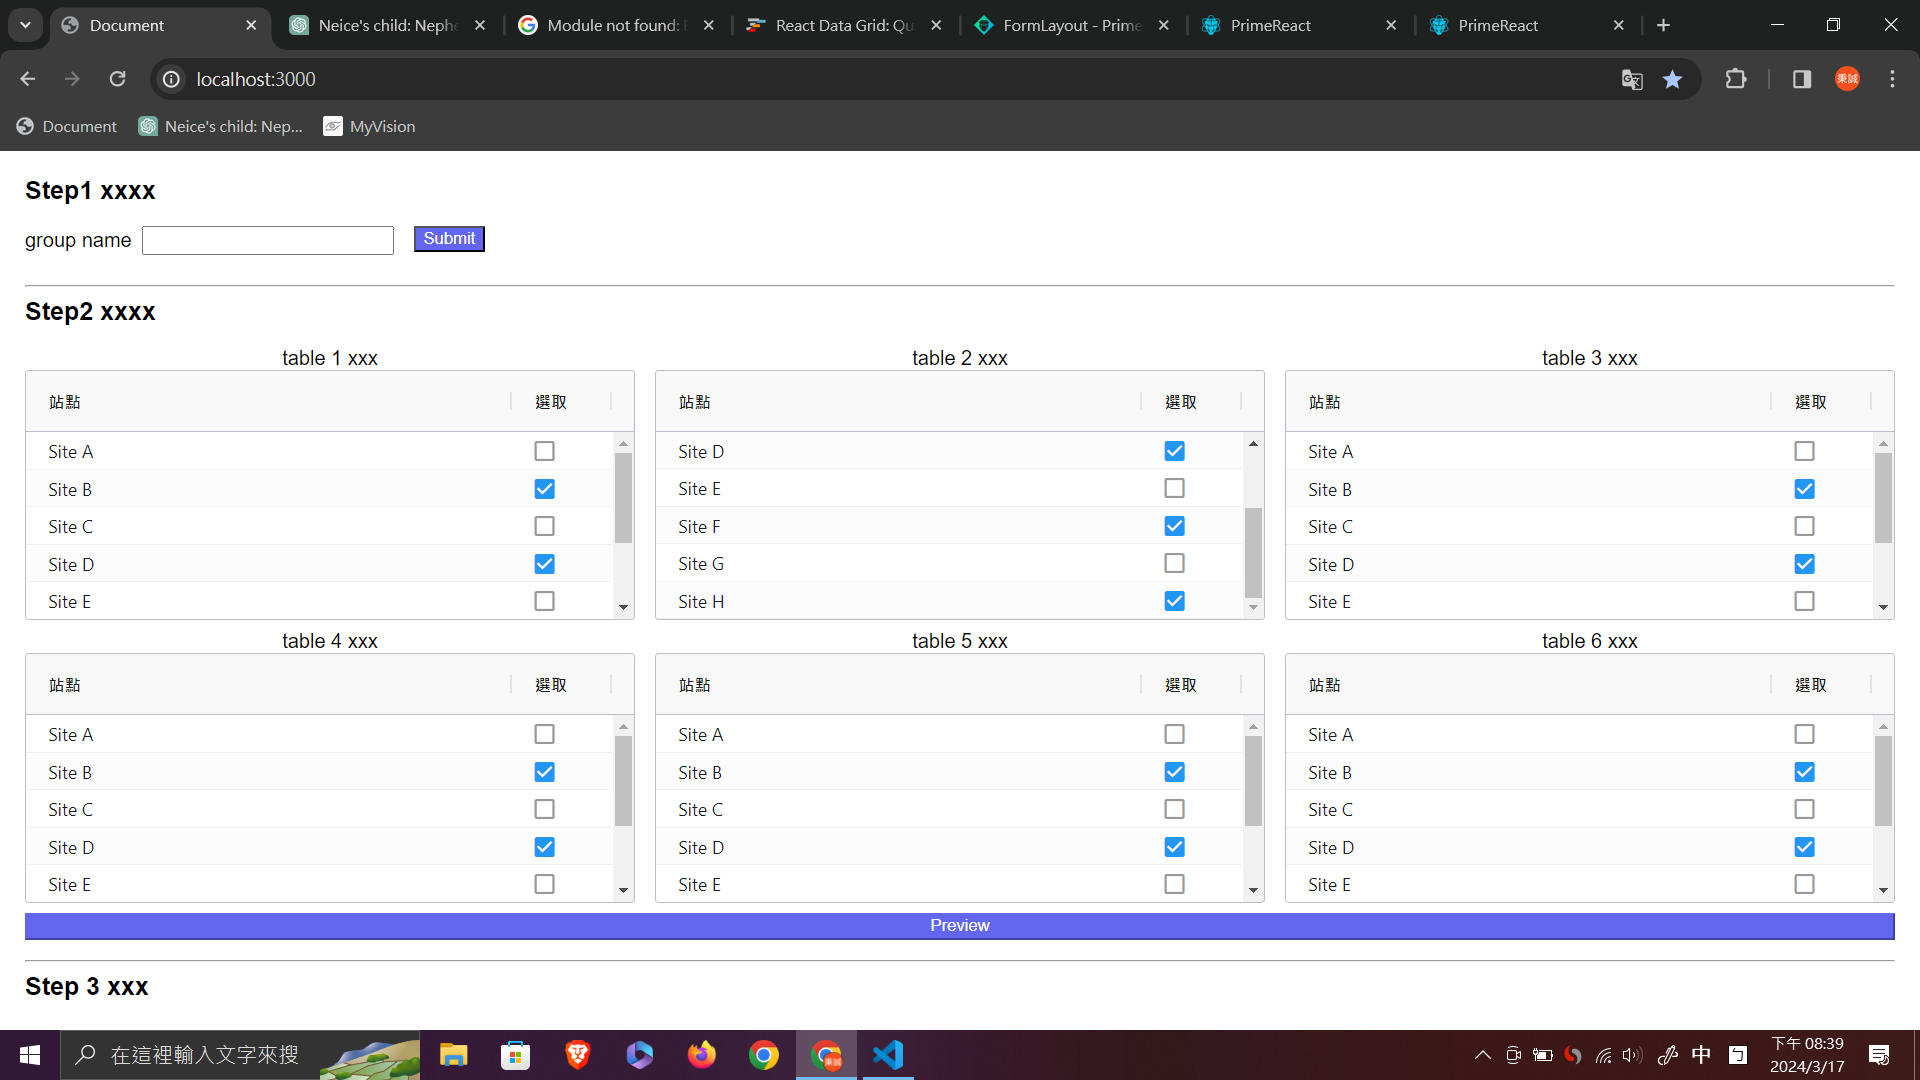
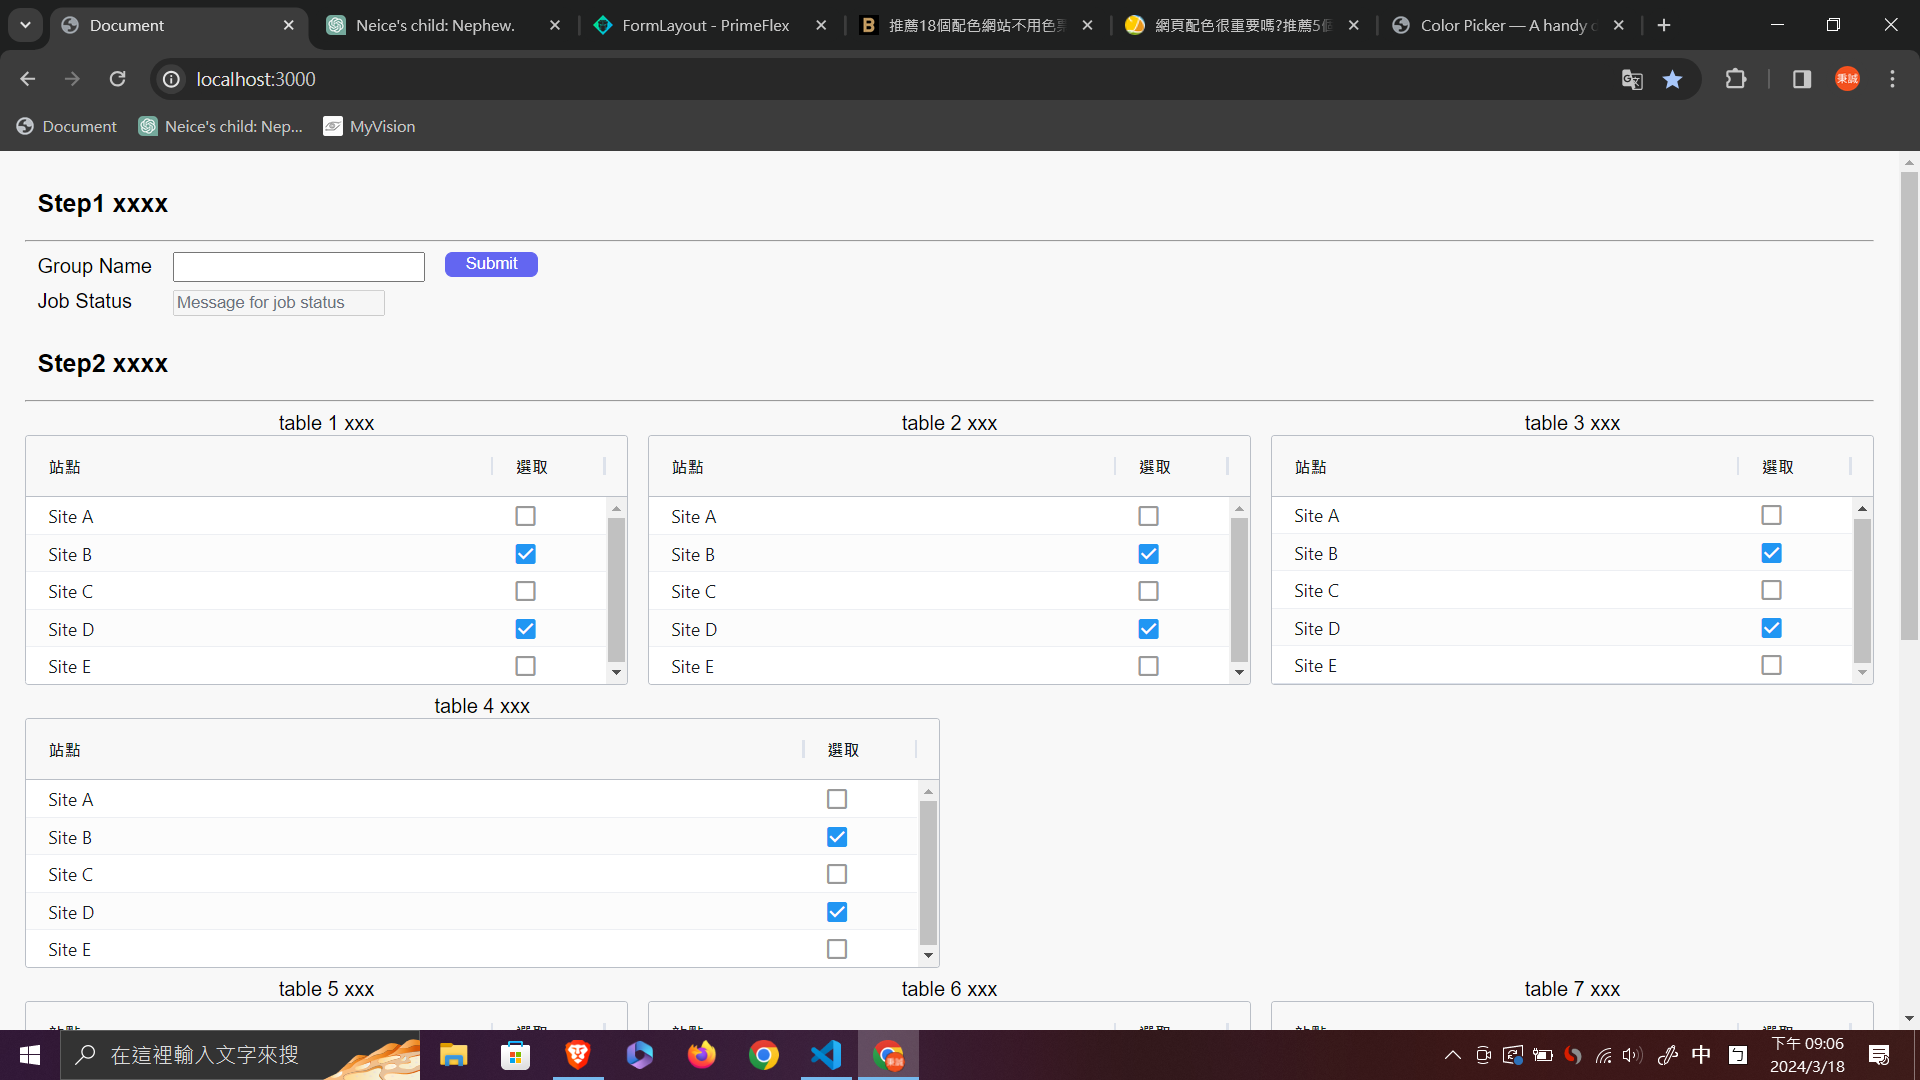
basic layout -2

diff --git a/react-project/src/App.tsx b/react-project/src/App.tsx
@@ -6,6 +6,7 @@ import React, { useState } from 'react';
 import 'primeflex/primeflex.css';
 import "primereact/resources/themes/lara-light-indigo/theme.css";
 import "primeicons/primeicons.css";
+import "./app.css";
 
 // Row Data Interface
 interface IRow {
@@ -15,116 +16,227 @@ interface IRow {
 
 const App: React.FC = () => {
     // 表格数据
-    const [rowData, setRowData] = useState<IRow[]>([
+
+    // ########## TABLE 1 ########## //
+    const [rowData1, setRowData1] = useState<IRow[]>([
         { site: 'Site A', selected: false },
         { site: 'Site B', selected: true },
         { site: 'Site C', selected: false },
         { site: 'Site D', selected: true },
-        { site: 'Site E', selected: false },
-        { site: 'Site F', selected: true },
-        { site: 'Site G', selected: false },
-        { site: 'Site H', selected: true },
+        { site: 'Site E', selected: false }
     ]);
 
-    // 列定义
-    const [colDefs, setColDefs] = useState<ColDef<IRow>[]>([
+    const [colDefs1, setColDefs1] = useState<ColDef<IRow>[]>([
         { headerName: '站點', field: 'site', filter: 'agTextColumnFilter', flex: 1 },
-        { headerName: '選取', field: 'selected', editable: true, filter: 'agTextColumnFilter', width: 80 },
+        { headerName: '選取', field: 'selected', editable: true, filter: 'agTextColumnFilter', width: 90 },
+    ]);
+
+    // ########## TABLE 2 ########## //
+    const [rowData2, setRowData2] = useState<IRow[]>([
+        { site: 'Site A', selected: false },
+        { site: 'Site B', selected: true },
+        { site: 'Site C', selected: false },
+        { site: 'Site D', selected: true },
+        { site: 'Site E', selected: false }
+    ]);
+
+    // ########## TABLE 3 ########## //
+    const [rowData3, setRowData3] = useState<IRow[]>([
+        { site: 'Site A', selected: false },
+        { site: 'Site B', selected: true },
+        { site: 'Site C', selected: false },
+        { site: 'Site D', selected: true },
+        { site: 'Site E', selected: false }
+    ]);
+
+    // ########## TABLE 4 ########## //
+    const [rowData4, setRowData4] = useState<IRow[]>([
+        { site: 'Site A', selected: false },
+        { site: 'Site B', selected: true },
+        { site: 'Site C', selected: false },
+        { site: 'Site D', selected: true },
+        { site: 'Site E', selected: false }
+    ]);
+
+    // ########## TABLE 5 ########## //
+    const [rowData5, setRowData5] = useState<IRow[]>([
+        { site: 'Site A', selected: false },
+        { site: 'Site B', selected: true },
+        { site: 'Site C', selected: false },
+        { site: 'Site D', selected: true },
+        { site: 'Site E', selected: false }
+    ]);
+
+    // ########## TABLE 6 ########## //
+    const [rowData6, setRowData6] = useState<IRow[]>([
+        { site: 'Site A', selected: false },
+        { site: 'Site B', selected: true },
+        { site: 'Site C', selected: false },
+        { site: 'Site D', selected: true },
+        { site: 'Site E', selected: false }
+    ]);
+
+    // ########## TABLE 7 ########## //
+    const [rowData7, setRowData7] = useState<IRow[]>([
+        { site: 'Site A', selected: false },
+        { site: 'Site B', selected: true },
+        { site: 'Site C', selected: false },
+        { site: 'Site D', selected: true },
+        { site: 'Site E', selected: false }
+    ]);
+
+    // ########## TABLE 8 ########## //
+    const [rowData8, setRowData8] = useState<IRow[]>([
+        { site: 'Site A', selected: false },
+        { site: 'Site B', selected: true },
+        { site: 'Site C', selected: false },
+        { site: 'Site D', selected: true },
+        { site: 'Site E', selected: false }
+    ]);
+
+    const [colDefs8, setColDefs8] = useState<ColDef<IRow>[]>([
+        { headerName: '站點', field: 'site', filter: 'agTextColumnFilter', flex: 1 },
+        { headerName: '選取', field: 'selected', editable: true, filter: 'agTextColumnFilter', width: 90 },
     ]);
 
     return (
         <div>
             <h2>Step1 xxxx</h2>
-            <div className="formgroup-inline">
-                <div className="field">
-                    <label htmlFor="firstname" className="p-sr-only">group name</label>
-                    <input id="firstname" type="text" className="text-base text-color" placeholder="" />
-                </div>
-                <button type="button" className="bg-primary">Submit</button>
-            </div>
             <hr></hr>
+            <div>
+                <div className="formgroup-inline" style={{ marginLeft: '10px', height: '30px' }}>
+                    <div className="field">
+                        <label htmlFor="firstname" className="p-sr-only" style={{ width: '100px' }} >Group Name</label>
+                        <input id="firstname" type="text" className="text-base text-color" placeholder="" />
+                    </div>
+                    <button type="button" className="bg-primary border-primary-500 px-3 border-1 border-solid border-round cursor-pointer transition-all transition-duration-200 hover:bg-primary-600 hover:border-primary-600 active:bg-primary-700 active:border-primary-700">Submit</button>
+                </div>
+                <div className="formgroup-inline" style={{ marginLeft: '10px' }}>
+                    <div className="field">
+                        <label htmlFor="jobStatus" className="p-sr-only" style={{ width: '100px' }}>Job Status</label>
+                        <input id="jobStatus" type="text" placeholder="Message for job status" disabled />
+                    </div>
+                </div>
+            </div>
 
             <h2>Step2 xxxx</h2>
-
+            <hr></hr>
             {/* Station table*/}
             <div className="grid">
                 <div className="col">
-                    <p style={{ margin: 0, textAlign: "center" }}>table 1 xxx</p>
+                    <p className='table-title'>table 1 xxx</p>
                     <div className="ag-theme-alpine" style={{ height: 200 }}>
                         <AgGridReact
-                            rowData={rowData}
-                            columnDefs={colDefs}
+                            rowData={rowData1}
+                            columnDefs={colDefs1}
                             getRowHeight={() => 30}
                         />
                     </div>
                 </div>
                 <div className="col">
-                    <p style={{ margin: 0, textAlign: "center" }}>table 2 xxx</p>
+                    <p className='table-title'>table 2 xxx</p>
                     <div className="ag-theme-alpine" style={{ height: 200 }}>
                         <AgGridReact
-                            rowData={rowData}
-                            columnDefs={colDefs}
+                            rowData={rowData2}
+                            columnDefs={colDefs1}
                             getRowHeight={() => 30}
                         />
                     </div>
                 </div>
                 <div className="col">
-                    <p style={{ margin: 0, textAlign: "center" }}>table 3 xxx</p>
+                    <p className='table-title'>table 3 xxx</p>
                     <div className="ag-theme-alpine" style={{ height: 200 }}>
                         <AgGridReact
-                            rowData={rowData}
-                            columnDefs={colDefs}
+                            rowData={rowData3}
+                            columnDefs={colDefs1}
                             getRowHeight={() => 30}
                         />
                     </div>
                 </div>
             </div>
 
-            {/* Other table*/}
+            {/* FDC table*/}
             <div className="grid">
-                <div className="col">
-                    <p style={{ margin: 0, textAlign: "center" }}>table 4 xxx</p>
+                <div className="col-6">
+                    <p className='table-title'>table 4 xxx</p>
                     <div className="ag-theme-alpine" style={{ height: 200 }}>
                         <AgGridReact
-                            rowData={rowData}
-                            columnDefs={colDefs}
-                            getRowHeight={() => 30}
-                        />
-                    </div>
-                </div>
-                <div className="col">
-                    <p style={{ margin: 0, textAlign: "center" }}>table 5 xxx</p>
-                    <div className="ag-theme-alpine" style={{ height: 200 }}>
-                        <AgGridReact
-                            rowData={rowData}
-                            columnDefs={colDefs}
-                            getRowHeight={() => 30}
-                        />
-                    </div>
-                </div>
-                <div className="col">
-                    <p style={{ margin: 0, textAlign: "center" }}>table 6 xxx</p>
-                    <div className="ag-theme-alpine" style={{ height: 200 }}>
-                        <AgGridReact
-                            rowData={rowData}
-                            columnDefs={colDefs}
+                            rowData={rowData4}
+                            columnDefs={colDefs1}
                             getRowHeight={() => 30}
                         />
                     </div>
                 </div>
             </div>
+
+            {/* WAC table*/}
+            <div className="grid">
+                <div className="col">
+                    <p className='table-title'>table 5 xxx</p>
+                    <div className="ag-theme-alpine" style={{ height: 200 }}>
+                        <AgGridReact
+                            rowData={rowData5}
+                            columnDefs={colDefs1}
+                            getRowHeight={() => 30}
+                        />
+                    </div>
+                </div>
+                <div className="col">
+                    <p className='table-title'>table 6 xxx</p>
+                    <div className="ag-theme-alpine" style={{ height: 200 }}>
+                        <AgGridReact
+                            rowData={rowData6}
+                            columnDefs={colDefs1}
+                            getRowHeight={() => 30}
+                        />
+                    </div>
+                </div>
+                <div className="col">
+                    <p className='table-title'>table 7 xxx</p>
+                    <div className="ag-theme-alpine" style={{ height: 200 }}>
+                        <AgGridReact
+                            rowData={rowData7}
+                            columnDefs={colDefs1}
+                            getRowHeight={() => 30}
+                        />
+                    </div>
+                </div>
+            </div>
+
             {/* Button*/}
             <div className="grid">
                 <div className="col-12">
-                    <button style={{ width: '100%' }} className="bg-primary border-primary-500">Preview</button>
+                    <button className="bg-primary border-primary-500 px-3 border-1 border-solid border-round cursor-pointer transition-all transition-duration-200 hover:bg-primary-600 hover:border-primary-600 active:bg-primary-700 active:border-primary-700" style={{ width: '100%', height: '25px' }}>Preview</button>
                 </div>
             </div>
-            <hr></hr>
 
             {/* other table*/}
             <h2>Step 3 xxx</h2>
-        </div>
+            <hr></hr>
+            {/* CONFIG table*/}
+            <div className="grid">
+                <div className="col-12">
+                    <p className='table-title'>table 8 xxx</p>
+                    <div className="ag-theme-alpine" style={{ height: 200 }}>
+                        <AgGridReact
+                            rowData={rowData8}
+                            columnDefs={colDefs8}
+                            getRowHeight={() => 30}
+                        />
+                    </div>
+                </div>
+            </div>
+
+            <div className="grid">
+                <div className="col">
+                    <button className="bg-primary border-primary-500 px-3 border-1 border-solid border-round cursor-pointer transition-all transition-duration-200 hover:bg-primary-600 hover:border-primary-600 active:bg-primary-700 active:border-primary-700" style={{ width: '100%' }}>Download</button>
+                </div>
+                <div className="col">
+                    <button className="bg-primary border-primary-500 px-3 border-1 border-solid border-round cursor-pointer transition-all transition-duration-200 hover:bg-primary-600 hover:border-primary-600 active:bg-primary-700 active:border-primary-700" style={{ width: '100%' }}>Submit</button>
+                </div>
+            </div>
+        </div >
     );
 }
 
-export default App; // 导出 App 组件
+export default App;

diff --git a/react-project/src/app.css b/react-project/src/app.css
@@ -1,0 +1,21 @@
+body {
+    background-color: #f8f8f8;
+}
+
+.form-label {
+    padding: 10px;
+}
+
+.table-title {
+    margin: 0;
+    text-align: center;
+}
+
+h2 {
+    margin-bottom: 5px;
+    /*background-color: #2989f1;
+    color: white;
+    */
+    padding: 10px;
+    border-radius: 10px;
+}

diff --git a/README.md b/README.md
@@ -1,6 +1,5 @@
 ## Screenshot
 ![alt text](screenshot/image.png)
-
 ## Reference
 * https://www.ag-grid.com/react-data-grid/getting-started/
 * https://primeflex.org/gridsystem
